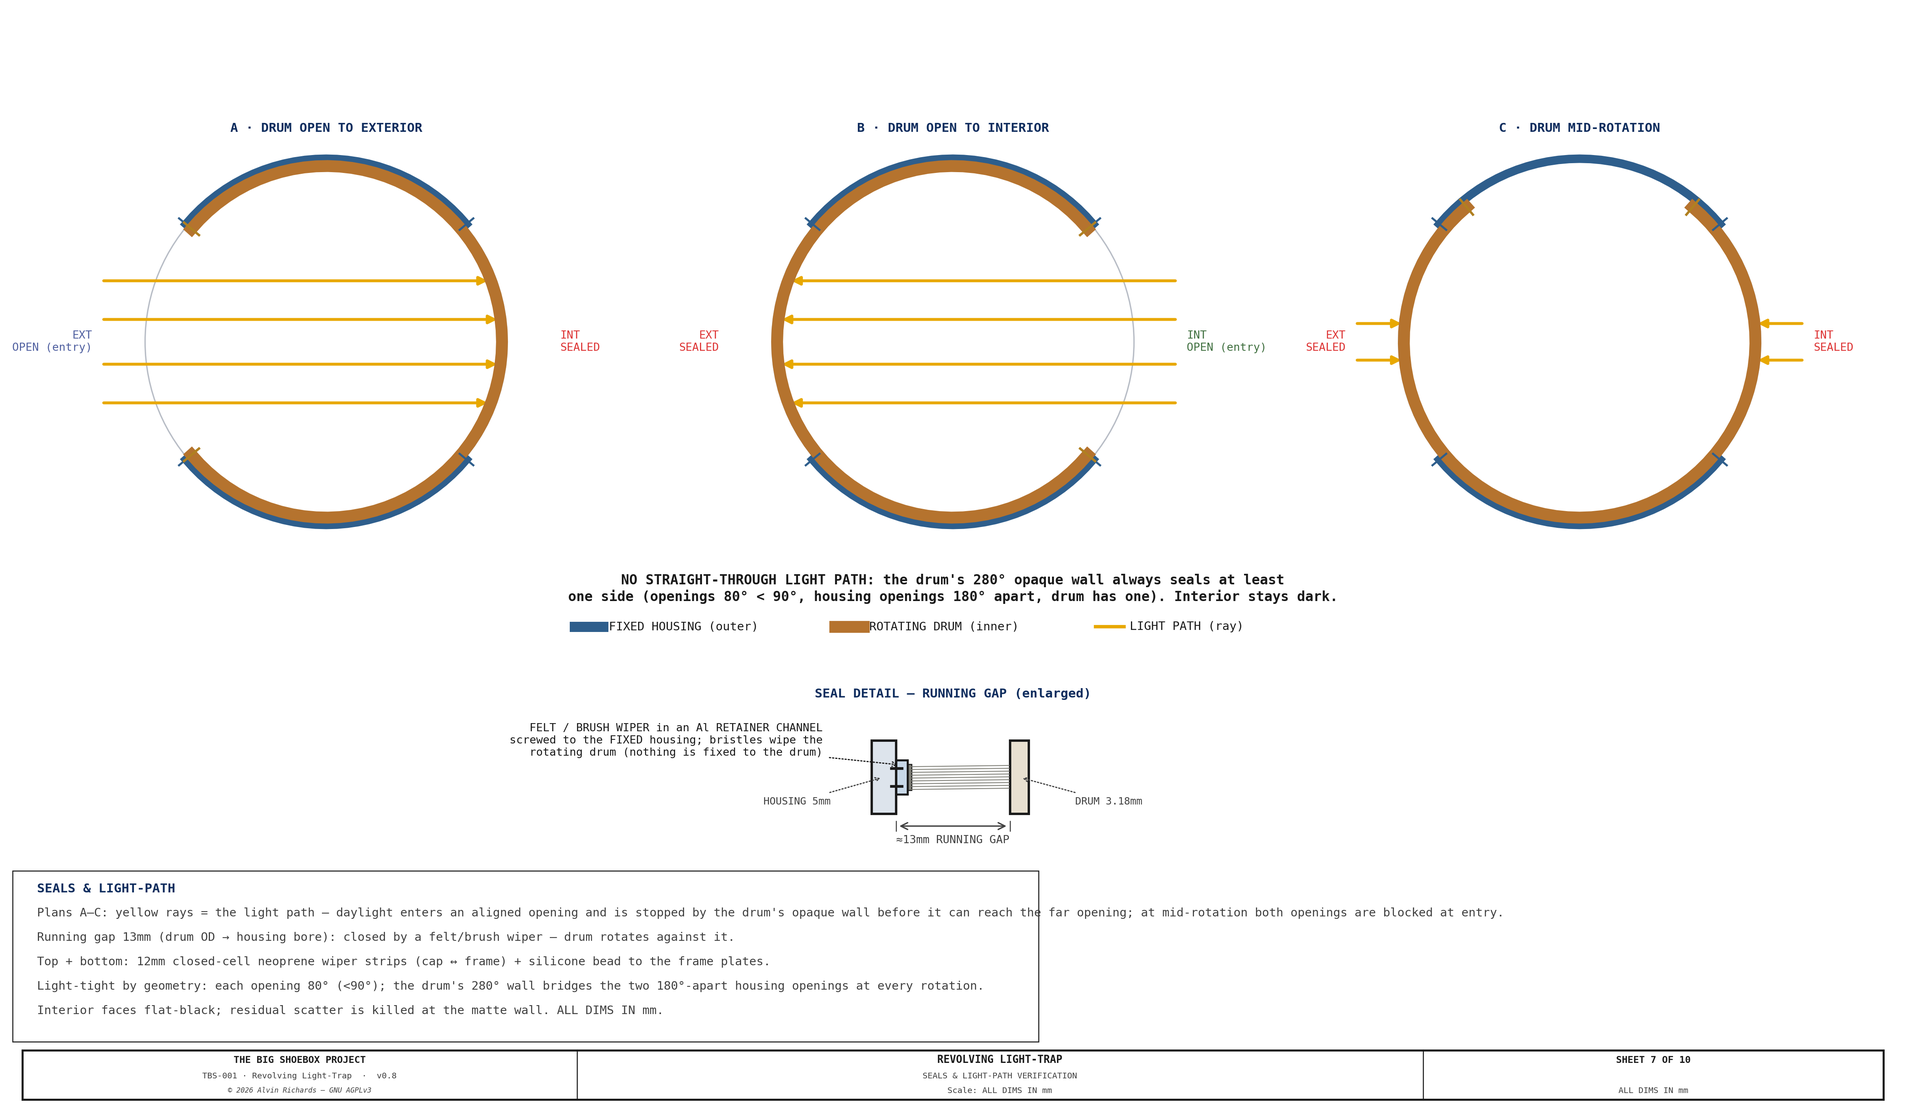
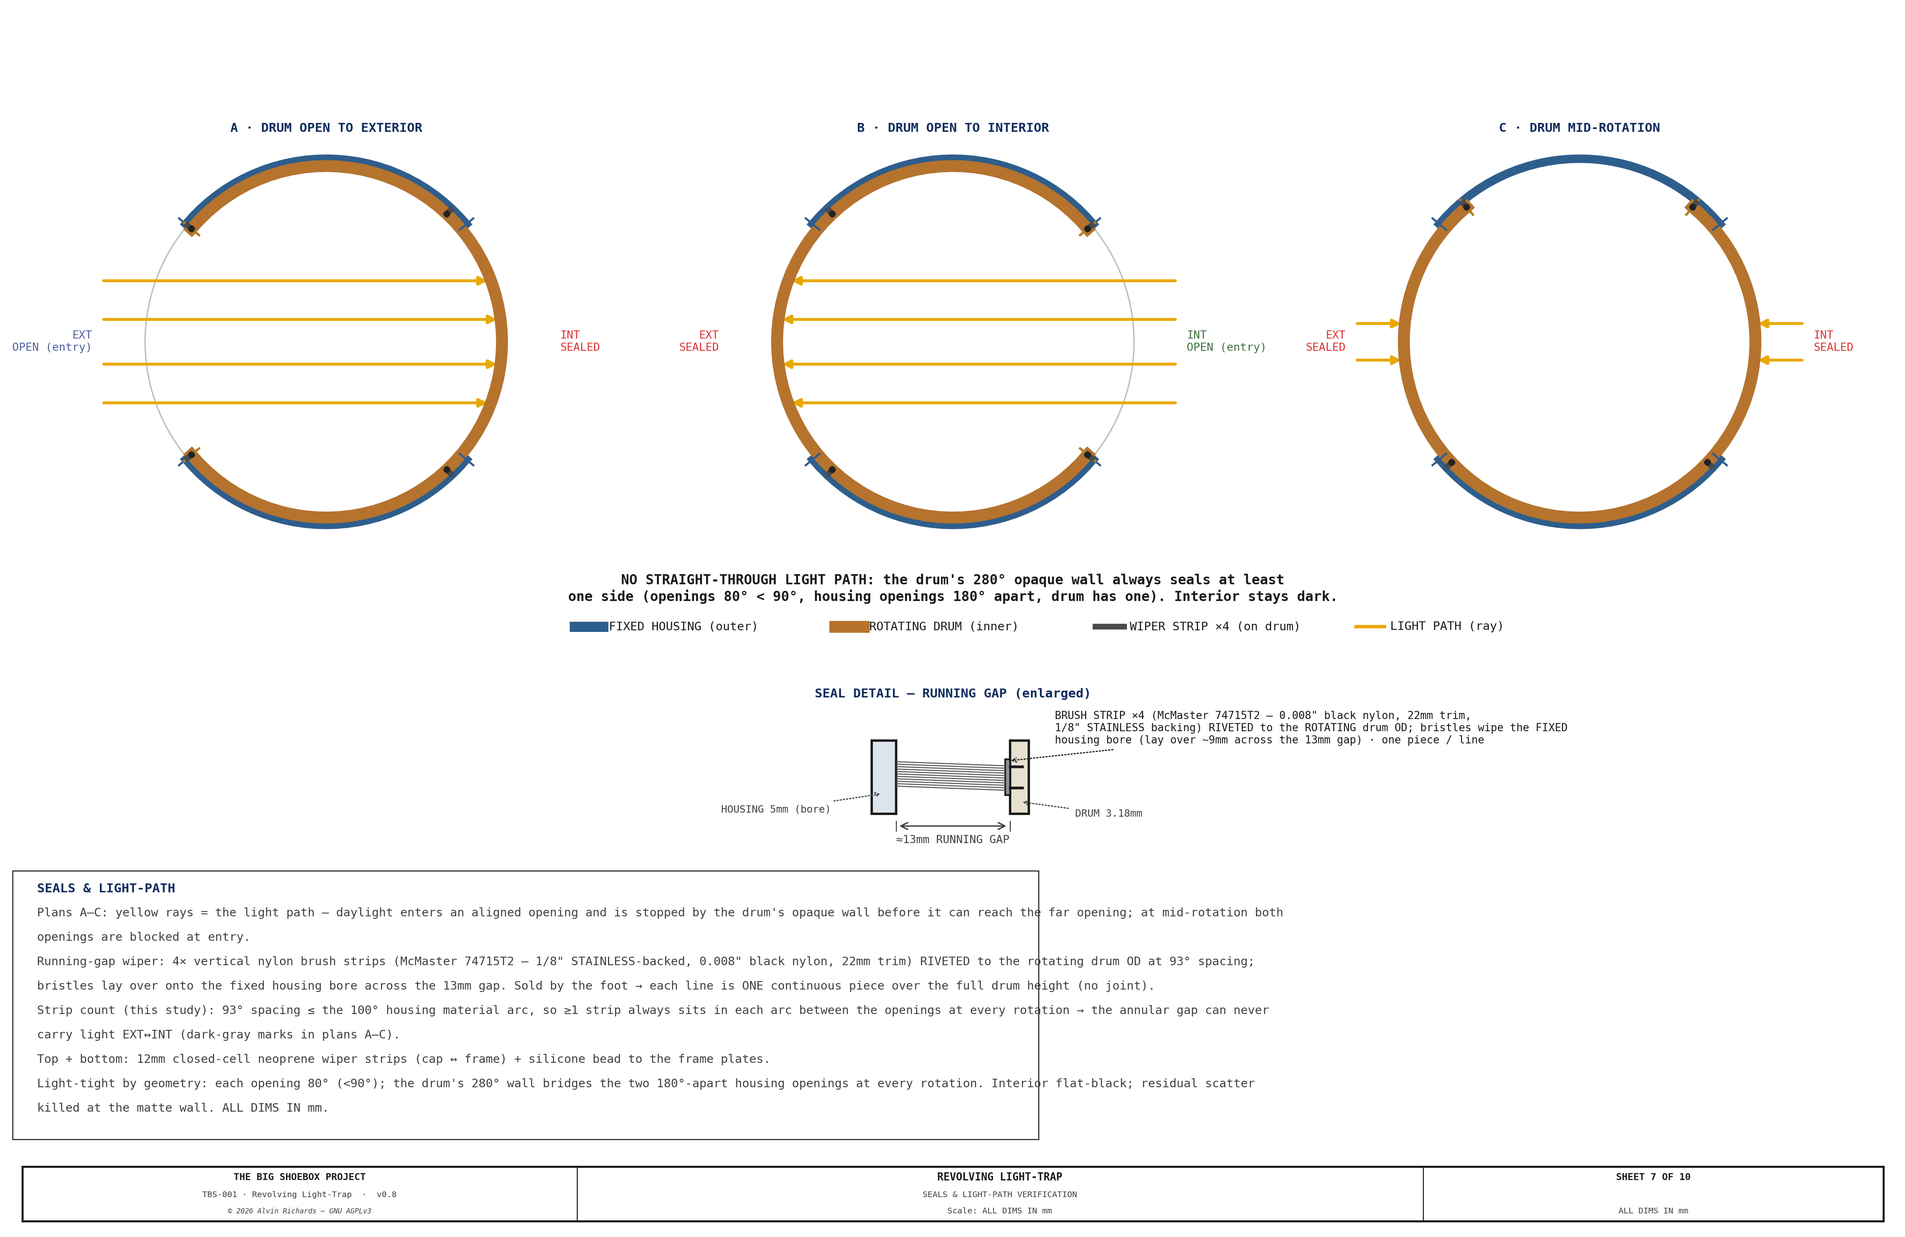
lighttrap: running-gap light seal = 4 drum-mounted nylon brush strips (McMaster 74715T2)
Redesign the running-gap wiper from a single housing-mounted felt/brush to 4 vertical
nylon brush strips RIVETED to the ROTATING drum OD, bristles wiping the fixed housing
bore. Strip count (4, ~93deg spacing) set by a Sheet 7 light-path study: 93deg <= the
100deg housing material arc, so >=1 strip always seals each arc between the openings at
every rotation -> the annular gap can never carry light EXT<->INT.

- Part: McMaster 74715T2 (1/8in SS-backed, 0.008in black nylon, 7/8in trim), .02/7ft,
  sold by the foot -> one continuous piece per line over the 2120mm drum (no joint).
- Sheet 7: 4 rotating wiper strips drawn in all 3 plans (the study) + legend key + seal
  detail rebuilt (SS backing riveted to drum, bristles lay over the 13mm gap) + notes.
- New LT_WIPER_* constants; RUN_GAP stays 13mm (no drum/cap resize).
- Report SS3.3 (15->13mm), SS4.3 seal row + SS4.5 supplier + Sheet 7 caption; parts-worklist
  stamped (confirmed by Alvin); RELEASE + TODO. Also fixed 2 stale constants comments.

diff --git a/src/generators/generate_lighttrap_diagram.py b/src/generators/generate_lighttrap_diagram.py
@@ -40,6 +40,7 @@ from tbs_constants import (
     LT_EDGE_CHAN_W, LT_EDGE_CHAN_LEG, LT_EDGE_CHAN_T, LT_EDGE_CHAN_N,
     LT_EDGE_CHAN_RIVET_PITCH, LT_EDGE_CHAN_END_BOLT,
     LT_HOUSING_ARC, LT_HOUSING_RIVET_N,
+    LT_WIPER_N, LT_WIPER_TRIM, LT_WIPER_SPACING,
     DIAGRAM_DPI, DIAGRAMS_DIR,
 )
 from tbs_drawing import (
@@ -945,7 +946,7 @@ def draw_sheet6():
              (dx, 0, "B · DRUM OPEN TO INTERIOR"),
              (2 * dx, 90, "C · DRUM MID-ROTATION")]
     X_LO, X_HI = -HR - 320, 2 * dx + HR + 320
-    Z_LO, Z_HI = -HR - 1420, HR + 360
+    Z_LO, Z_HI = -HR - 1720, HR + 360               # extra bottom room: wrapped seal notes clear the title block
     FIG_W = 20.0
     FIG_H = FIG_W * (Z_HI - Z_LO) / (X_HI - X_LO)
     fig, ax = plt.subplots(figsize=(FIG_W, FIG_H), dpi=DIAGRAM_DPI)
@@ -990,6 +991,16 @@ def draw_sheet6():
             ax.plot([cx + (DR - 24) * math.cos(a), cx + (DR + 24) * math.cos(a)],
                     [(DR - 24) * math.sin(a), (DR + 24) * math.sin(a)],
                     color="#B08020", lw=1.4, zorder=7)
+        # WIPER STRIPS on the drum wall (rotate WITH the drum) — bristles span the gap to
+        # the housing bore. N strips @ spacing° ≤ 100° keep ≥1 in each material arc always.
+        brz = HR - LT_HOUSING_T
+        for k in range(LT_WIPER_N):
+            sa = math.radians(dth + oh + k * LT_WIPER_SPACING)
+            cw, sw = math.cos(sa), math.sin(sa)
+            ax.plot([cx + DR * cw, cx + brz * cw], [DR * sw, brz * sw],
+                    color="#4A4A4A", lw=3.4, zorder=8)                          # strip + bristles across the gap
+            draw_circle(ax, cx + DR * cw, DR * sw, 7, lw=0.6, color="#222",
+                        fill=True, fc="#222", zorder=9)                          # holder on the drum OD
         # LIGHT-PATH RAYS — daylight enters an aligned opening, stopped by the drum wall
         any_aligned = any(angdiff(dth, o) < oh for o in (0, 180))
         for oc in (0, 180):
@@ -1020,6 +1031,7 @@ def draw_sheet6():
     lz = -HR - 250
     keys = [(C6_HOUSE, "FIXED HOUSING (outer)", 6.0),
             (C6_DRUM, "ROTATING DRUM (inner)", 7.0),
+            ("#4A4A4A", f"WIPER STRIP ×{LT_WIPER_N} (on drum)", 3.4),
             ("#E8A800", "LIGHT PATH (ray)", 2.0)]
     lx = dx - 930
     for col, lab, w in keys:
@@ -1029,24 +1041,25 @@ def draw_sheet6():
         lx += 640
 
     # ── Seal detail (radial section at the running gap) ──────────────────────
+    # Brush strip RIVETED to the ROTATING drum OD; bristles wipe the FIXED housing bore.
     sx, sz = dx, -HR - 620
-    draw_rect(ax, sx - 200, sz - 90, 60, 180, fc="#DDE4EC", lw=1.4, zorder=5)   # housing wall
-    draw_rect(ax, sx + 140, sz - 90, 46, 180, fc=C_LT_DRUM, lw=1.4, zorder=5)   # drum wall
-    # brush/felt held in an Al retainer channel SCREWED to the fixed housing; bristles wipe the drum
-    draw_rect(ax, sx - 140, sz - 42, 28, 84, fc=C_ALUM, lw=1.2, zorder=6)       # retainer channel (on housing)
-    draw_rect(ax, sx - 114, sz - 32, 12, 64, fc="#7E7E76", lw=0.6, zorder=5)    # brush/felt root in the channel
-    for zz in range(-30, 32, 7):                                               # bristles reach across to the drum
-        ax.plot([sx - 102, sx + 138], [sz + zz, sz + zz + 3], color="#7E7E76", lw=0.5, zorder=6)
-    for zc in (sz - 22, sz + 22):                                              # screws: retainer → housing
-        ax.plot([sx - 152, sx - 126], [zc, zc], color=C_OUT, lw=1.6, zorder=7)
+    draw_rect(ax, sx - 200, sz - 90, 60, 180, fc="#DDE4EC", lw=1.4, zorder=5)   # FIXED housing wall (bore face at sx-140)
+    draw_rect(ax, sx + 140, sz - 90, 46, 180, fc=C_LT_DRUM, lw=1.4, zorder=5)   # ROTATING drum wall (OD face at sx+140)
+    draw_rect(ax, sx + 128, sz - 44, 12, 88, fc="#8A8F98", lw=1.0, zorder=6)    # SS backing (1/8") on the drum OD
+    for zz in range(-32, 34, 6):                                               # bristles lay over onto the housing bore
+        ax.plot([sx + 128, sx - 138], [sz + zz, sz + zz + 10], color="#555", lw=0.6, zorder=6)
+    for zc in (sz - 26, sz + 26):                                              # blind rivets: SS backing → drum OD
+        ax.plot([sx + 140, sx + 170], [zc, zc], color=C_OUT, lw=1.6, zorder=8)
     draw_dim_h(ax, sx - 140, sx + 140, sz - 120, f"≈{RUN_GAP}mm RUNNING GAP", offset=40,
                fs=6.5, above=False, font=FONT)
-    leader(ax, sx - 127, sz + 30, sx - 320, sz + 90,
-           "FELT / BRUSH WIPER in an Al RETAINER CHANNEL\nscrewed to the FIXED housing; bristles wipe the\nrotating drum (nothing is fixed to the drum)",
-           fs=6.5, color=C_OUT, ha="right", arrow_style="->", font=FONT)
-    leader(ax, sx - 170, sz, sx - 300, sz - 60, f"HOUSING {LT_HOUSING_T}mm", fs=6,
+    leader(ax, sx + 134, sz + 40, sx + 250, sz + 120,
+           f"BRUSH STRIP ×{LT_WIPER_N} (McMaster 74715T2 — 0.008\" black nylon, {LT_WIPER_TRIM:.0f}mm trim,\n"
+           f"1/8\" STAINLESS backing) RIVETED to the ROTATING drum OD; bristles wipe the FIXED\n"
+           f"housing bore (lay over ~{LT_WIPER_TRIM - RUN_GAP:.0f}mm across the {RUN_GAP}mm gap) · one piece / line",
+           fs=6.3, color=C_OUT, ha="left", arrow_style="->", font=FONT)
+    leader(ax, sx - 170, sz - 40, sx - 300, sz - 80, f"HOUSING {LT_HOUSING_T}mm (bore)", fs=6,
            color=C_DIM, ha="right", arrow_style="->", font=FONT)
-    leader(ax, sx + 163, sz, sx + 300, sz - 60, f"DRUM {LT_DRUM_T:.2f}mm", fs=6,
+    leader(ax, sx + 163, sz - 60, sx + 300, sz - 90, f"DRUM {LT_DRUM_T:.2f}mm", fs=6,
            color=C_DIM, ha="left", arrow_style="->", font=FONT)
     ax.text(sx, sz + 190, "SEAL DETAIL — RUNNING GAP (enlarged)", ha="center", va="bottom",
             fontsize=7.5, color=TITLE_COL, fontweight="bold", **FONT, zorder=9)
@@ -1054,12 +1067,12 @@ def draw_sheet6():
     notes = [
         "SEALS & LIGHT-PATH",
         "Plans A–C: yellow rays = the light path — daylight enters an aligned opening and is stopped by the drum's opaque wall before it can reach the far opening; at mid-rotation both openings are blocked at entry.",
-        f"Running gap {RUN_GAP}mm (drum OD → housing bore): closed by a felt/brush wiper — drum rotates against it.",
+        f"Running-gap wiper: {LT_WIPER_N}× vertical nylon brush strips (McMaster 74715T2 — 1/8\" STAINLESS-backed, 0.008\" black nylon, {LT_WIPER_TRIM:.0f}mm trim) RIVETED to the rotating drum OD at {LT_WIPER_SPACING:.0f}° spacing; bristles lay over onto the fixed housing bore across the {RUN_GAP}mm gap. Sold by the foot → each line is ONE continuous piece over the full drum height (no joint).",
+        f"Strip count (this study): {LT_WIPER_SPACING:.0f}° spacing ≤ the 100° housing material arc, so ≥1 strip always sits in each arc between the openings at every rotation → the annular gap can never carry light EXT↔INT (dark-gray marks in plans A–C).",
         "Top + bottom: 12mm closed-cell neoprene wiper strips (cap ↔ frame) + silicone bead to the frame plates.",
-        f"Light-tight by geometry: each opening {LT_OPENING_DEG}° (<90°); the drum's {LT_SHELL_ARC}° wall bridges the two 180°-apart housing openings at every rotation.",
-        "Interior faces flat-black; residual scatter is killed at the matte wall. ALL DIMS IN mm.",
+        f"Light-tight by geometry: each opening {LT_OPENING_DEG}° (<90°); the drum's {LT_SHELL_ARC}° wall bridges the two 180°-apart housing openings at every rotation. Interior flat-black; residual scatter killed at the matte wall. ALL DIMS IN mm.",
     ]
-    draw_notes(ax, notes, X_LO + 60, -HR - 880, 60, fs=7, font=FONT, width=2400,
+    draw_notes(ax, notes, X_LO + 60, -HR - 880, 60, fs=7, font=FONT, width=2400, wrap=175,
                title_color=TITLE_COL)
 
     title_block(ax, "SHEET 7 OF 10", drawing_title="REVOLVING LIGHT-TRAP",

diff --git a/src/generators/tbs_constants.py b/src/generators/tbs_constants.py
@@ -379,15 +379,28 @@ LT_CAP_OD      = round(2 * (LT_DRUM_OR - LT_DRUM_T)) - 3   # 855 — cap nests I
 LT_RIM_LEG     = 25       # rim-angle leg (mm) — rolled 280° arc at each cap rim, provides the rivetable lip
 LT_RIM_T       = 3        # rim-angle thickness (mm); 25×25×3 6061-T6 Al, riveted to both caps over the 280° arc
 LT_LAP_H       = 25       # shell lap over each cap rim (mm)
-LT_RIVET_D     = 3.18     # 1/8" 18-8 SS domed-head blind rivet (McMaster 97525A425 shell→cap / 97525A435 housing→frame)
+LT_RIVET_D     = 3.18     # 1/8" 18-8 SS blind rivet, low-profile head (McMaster 97525A425 shell→cap / 97525A435 housing→frame)
 LT_RIVET_HOLE  = 3.3      # drill hole Ø (mm) — #30 drill, 0.129–0.133" per the rivet datasheet
 LT_RIVET_PITCH = 60       # rivet pitch around the cap rim (mm)
 LT_RIVET_N     = round((LT_SHELL_ARC / 360) * math.pi * LT_CAP_OD / LT_RIVET_PITCH)   # ≈ 35 rivets per cap (280° shell arc)
 LT_RIM_RIVET_PITCH = 120  # rim-angle flat-leg → cap rivet pitch (mm; coarser than the shell rivets)
 # ── Housing (outer skin) → FRAME attachment (2026-08-21). The fixed housing laps a
-# rolled rim-angle welded to the frame top/bottom beams + jamb frames; SS rivets + DP8010.
+# rolled rim-angle welded to the frame top/bottom beams (opening edges stiffened by Al
+# edge channels, not jamb posts); SS rivets + DP8010.
 LT_HOUSING_ARC     = 360 - 2 * LT_OPENING_DEG   # 200 — housing material arc (two 100° arcs; two 80° openings)
 LT_HOUSING_RIVET_N = round((LT_HOUSING_ARC / 360) * math.pi * 2 * LT_HOUSING_R / LT_RIVET_PITCH)  # ≈ 26 per top/bottom edge
+# ── Running-gap light-seal WIPER (2026-08-24) — nylon strip brushes on the ROTATING drum.
+# Vertical brush strips riveted to the drum OD, bristles wiping the FIXED housing bore.
+# Spaced ≤100° (the housing material-arc width) so a strip always sits in each 100° arc at
+# every drum rotation → guaranteed gap-light block (light-trap-selection §9 Sheet 7 study).
+# McMaster 74715T2: corrosion-resistant tight-seal strip brush — 1/8"×1/8" STAINLESS-STEEL
+# backing, 0.008" (0.20mm) black nylon, 1" overall (7/8"/22.2mm trim); sold by the foot, so
+# each line is ONE continuous cut over the full drum height (no butt joint). SS backing suits
+# the damp container; black bristles absorb stray light.
+LT_WIPER_N         = 4      # brush strips around the drum (280° wall / 3 gaps = 93.3° spacing ≤ 100°)
+LT_WIPER_TRIM      = 22.2   # bristle trim / free length (mm) — 7/8" (bridges the 13mm gap, lays over ~9mm)
+LT_WIPER_BRISTLE_D = 0.20   # bristle Ø (mm) — 0.008" fine dense black nylon (dense = light block, black = absorb)
+LT_WIPER_SPACING   = LT_SHELL_ARC / (LT_WIPER_N - 1)   # 93.3° between strips on the 280° drum wall
 
 # ── B2 punch-out bay (rev9) — the hinge-panel center zone protrudes forward,
 # enclosing the offset housing, so the film-plane rails stay internal.

diff --git a/light-trap-selection.md b/light-trap-selection.md
@@ -106,7 +106,7 @@ Custom fabrication is the correct choice for a field-deployed, transport-rated c
 2. **No galvanic couple.** Plastic-to-steel has no galvanic couple, so isolation reduces to plain nylon washers at the shaft only — no full isolation kit, and no outdoor-corrosion risk at the panel-frame and bearing interfaces.
 3. **Cost and fabrication.** HDPE sheet is inexpensive, and hot-air / extrusion welding of a Ø900 cylinder is low-skill labor relative to metal seam welding.
 
-A 3–5mm plastic cylinder, edge-stiffened along the opening, is rigid as a freestanding shell without a surrounding wall frame, and bolts into the panel opening on 8 × M10 flush bolts (stainless, nylon-isolated). UV-stabilized HDPE is inherently weatherproof and needs no primer or anodize; the drum is in the dry walk-through entry zone, not the chemistry zone, so only ambient/outdoor exposure applies. The trade-off is plastic's higher thermal expansion, accommodated by the 15mm running gap between drum and housing.
+A 3–5mm plastic cylinder, edge-stiffened along the opening, is rigid as a freestanding shell without a surrounding wall frame, and bolts into the panel opening on 8 × M10 flush bolts (stainless, nylon-isolated). UV-stabilized HDPE is inherently weatherproof and needs no primer or anodize; the drum is in the dry walk-through entry zone, not the chemistry zone, so only ambient/outdoor exposure applies. The trade-off is plastic's higher thermal expansion, accommodated by the 13mm running gap between drum and housing.
 
 The SKF 6215 sealed bearing is rated for radial loads to 52.7 kN and operates at 0–120°C — far beyond any field requirement. The neoprene/silicone top seal provides IP44 protection against splash and rain ingress. Black-pigmented sheet with flat-black touch-in at the welds is optically dead at visible wavelengths.
 
@@ -145,7 +145,7 @@ The light lock is a **fixed housing + single-opening C-shell drum** (no internal
 |------|--------------|
 | Top seal | 12mm closed-cell neoprene wiper strip bonded to top cap underside + silicone bead seal against the frame top plate |
 | Bottom seal | 12mm closed-cell neoprene wiper strip bonded to bottom cap underside + silicone bead seal against the frame bottom plate |
-| Drum-to-housing running gap | ≈13mm radial clearance, closed by a felt/brush wiper the drum rotates against (a compression strip would bind on the turning drum) — see §9 Sheet 7 |
+| Drum-to-housing running gap | ≈13mm radial clearance, closed by **4 vertical nylon brush strips** ([McMaster 74715T2](https://www.mcmaster.com/74715T2-74715T207/) — 1/8″ stainless-backed, 0.008″ black nylon, 1″ overall / 7/8″ trim) riveted to the **rotating drum** OD at 93° spacing; bristles lay over onto the fixed housing bore. Sold by the foot → one continuous piece per line over the full drum height. Strip count set by the Sheet 7 light-path study (93° ≤ the 100° housing material arc, so a strip always seals each arc between the openings at every rotation) — see §9 Sheet 7 |
 
 ### 4.4 Hardware
 
@@ -164,6 +164,7 @@ The light lock is a **fixed housing + single-opening C-shell drum** (no internal
 | 1/8" 18-8 SS blind rivets — [97525A425](https://www.mcmaster.com/97525A425/) (shell→cap, $13.83/100) + [97525A435](https://www.mcmaster.com/97525A435/) (housing→frame, $14.59/100) — + 3M Scotch-Weld DP8010 adhesive | [McMaster-Carr](https://www.mcmaster.com/); [3M DP8010](https://www.3m.com/3M/en_US/p/d/b40071180/) | ~35/cap + ~26/edge @ ~60mm pitch, drill Ø3.3 (#30); DP8010 is the structural bond + light seal for HDPE (low surface energy) |
 | SKF 6215-2RS1 bearing (×2) | Bearing World — Anaheim CA; or Applied Industrial Technologies | 75mm ID, sealed, C3 clearance |
 | 75mm × 150mm steel stub shaft (×2) | Pacific Coast Steel or any steel service center | 75mm Ø solid round bar, cut to length |
+| Running-gap wiper — nylon strip brush (4 lines × ~7 ft) | [McMaster-Carr 74715T2](https://www.mcmaster.com/74715T2-74715T207/) ($27.02/7 ft) | 1/8″ stainless-backed, 0.008″ black nylon, 1″ overall / 7/8″ trim; riveted to the drum OD, one 7 ft piece per line (~$108 total) |
 | Closed-cell neoprene strip 12mm (3m) | McMaster-Carr #93855K6 | Closed-cell, pressure-sensitive adhesive back |
 | Silicone bead sealant | McMaster-Carr #7587A3 or equivalent | Black, UV-stable |
 | SS grab rail 100mm Ø (×1) | McMaster-Carr #4530T37 | 1" nominal; 400mm cut to length; interior face only |
@@ -291,9 +292,12 @@ scheme (cap→flange tapped; ring/collar→beam weld-nuts; Al nylon-isolated).
 
 ![TBS-001 Light-Trap — Sheet 6: Machined Components — Bearing Seats & Stub-Shaft](assets/lighttrap-sheet6.png)
 
-**Sheet 7 — Seals & light-path verification.** The running-gap wiper and top/bottom
-seals, and the three-position proof (open-to-exterior, open-to-interior, mid-rotation)
-that no straight-through light path exists at any rotation.
+**Sheet 7 — Seals & light-path verification.** The running-gap wiper (4 drum-mounted
+nylon brush strips) and top/bottom seals, and the three-position proof (open-to-exterior,
+open-to-interior, mid-rotation) that no straight-through light path exists at any rotation.
+The plans also carry the strip-count study — the 93°-spaced strips keep at least one wiper
+in each 100° housing material arc at every rotation, so the annular gap can never carry
+light between the openings.
 
 ![TBS-001 Light-Trap — Sheet 7: Seals & Light-Path Verification](assets/lighttrap-sheet7.png)
 

diff --git a/RELEASE.md b/RELEASE.md
@@ -57,7 +57,12 @@ file** — a release must not ship without a changelog entry:
   `parts-worklist.csv`. **Fastening resolved:** cap→stub-shaft = bolt into a **tapped** steel flange; bearing
   ring/collar→axle beam = M10 into **weld-nuts** on the 3mm RHS (too thin to tap, closed tube), Al ring
   nylon-isolated — annotated on Sheets 5/6. The **end-cap blueprint moved to Sheet 6** (all machined metal parts
-  together); Sheet 3 is now the pure drum-shell cut sheet (the developed flat blank). Full parts/cost + weight/CG
+  together); Sheet 3 is now the pure drum-shell cut sheet (the developed flat blank). **Running-gap light seal
+  spec'd:** the drum↔housing 13 mm gap is closed by **4 vertical nylon brush strips** ([McMaster 74715T2](https://www.mcmaster.com/74715T2-74715T207/)
+  — 1/8″ stainless-backed, 0.008″ black nylon, 7/8″ trim, $27.02/7 ft) **riveted to the rotating drum** OD at
+  93° spacing; the count comes from a Sheet 7 light-path study (93° ≤ the 100° housing material arc, so a
+  strip always seals each arc between the openings at every rotation). Sold by the foot → one continuous piece
+  per line (no joint). Sheet 7's seal detail + three-position plans now carry the study. Full parts/cost + weight/CG
   + 3D-model cascade tracked in `TODO.md`. *(In progress.)*
 - **Film-plane corner wall-mounts + IBC foot ↔ tray clash (branch `film-plane-left-brackets`).** Resolved
   the film-plane left-bracket + tray/IBC cluster. **Tray clash:** the two FRONT IBC floor feet were shifted

diff --git a/TODO.md b/TODO.md
@@ -33,8 +33,9 @@ seals→6, cage→7. New constants live in `tbs_constants.py` (`LT_CAP_TOP_T`/`L
   Al plate Ø855 ×2 (both caps now Al), 25×25×3 6061-T6 Al rim-angle (2 rings), **1/8" SS blind (low-profile head)
   rivets 97525A425 $13.83/100 + 97525A435 $14.59/100**, 3M DP8010, frame steel RHS (50×50×3 posts/rails +
   100×50×3 axle beams + 10mm bearing plates), **4× 6063-T5 Al U-channel ~20×18×3 opening-edge stiffeners**
-  (confirm stocked section; + 8× L-clip + 8× M8 end bolts) — REPLACED the steel jamb posts (2026-08-23).
-  Prices in report §4.5; material now, fab later.
+  (confirm stocked section; + 8× L-clip + 8× M8 end bolts) — REPLACED the steel jamb posts (2026-08-23),
+  **4× running-gap wiper brush strips (McMaster 74715T2, $27.02/7 ft, ~$108 total; 1/8" SS-backed 0.008" black
+  nylon, riveted to the drum OD)** (2026-08-24, stamped in parts-worklist.csv). Prices in report §4.5; material now, fab later.
 - [x] **light-trap-selection.md §4** — DONE. §4.1 metal caps, §4.2 frame-mounted bearings, §4.3 felt/brush
   running gap, §4.4/§4.5 lap-joint fasteners + real rivet SKUs + Al plate/angle suppliers.
 - [x] **Registration** — DONE. All 9 sheets in `dependencies.yml`/`all-diagrams.md`/`publish.sh`/`setup_docs.py`;
